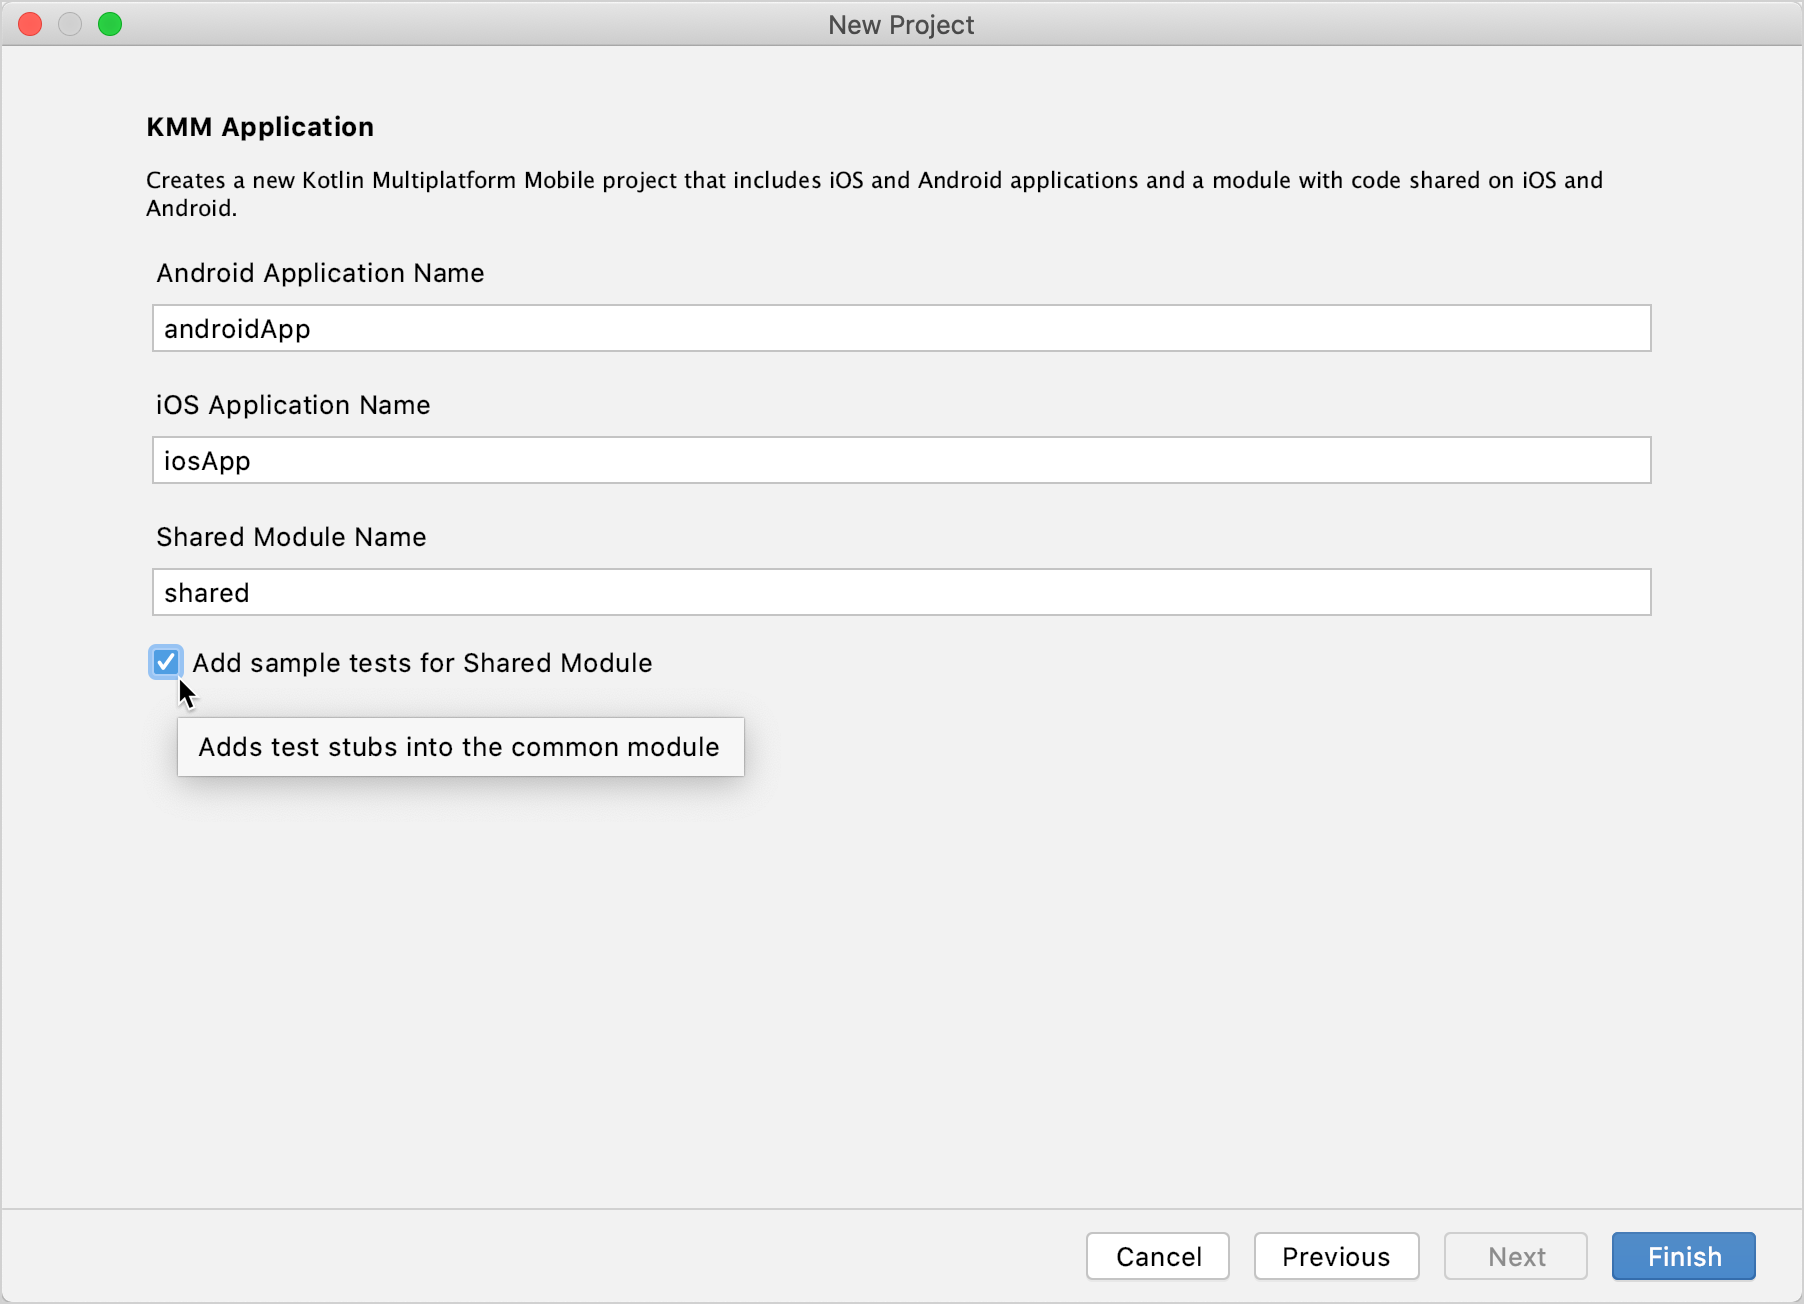
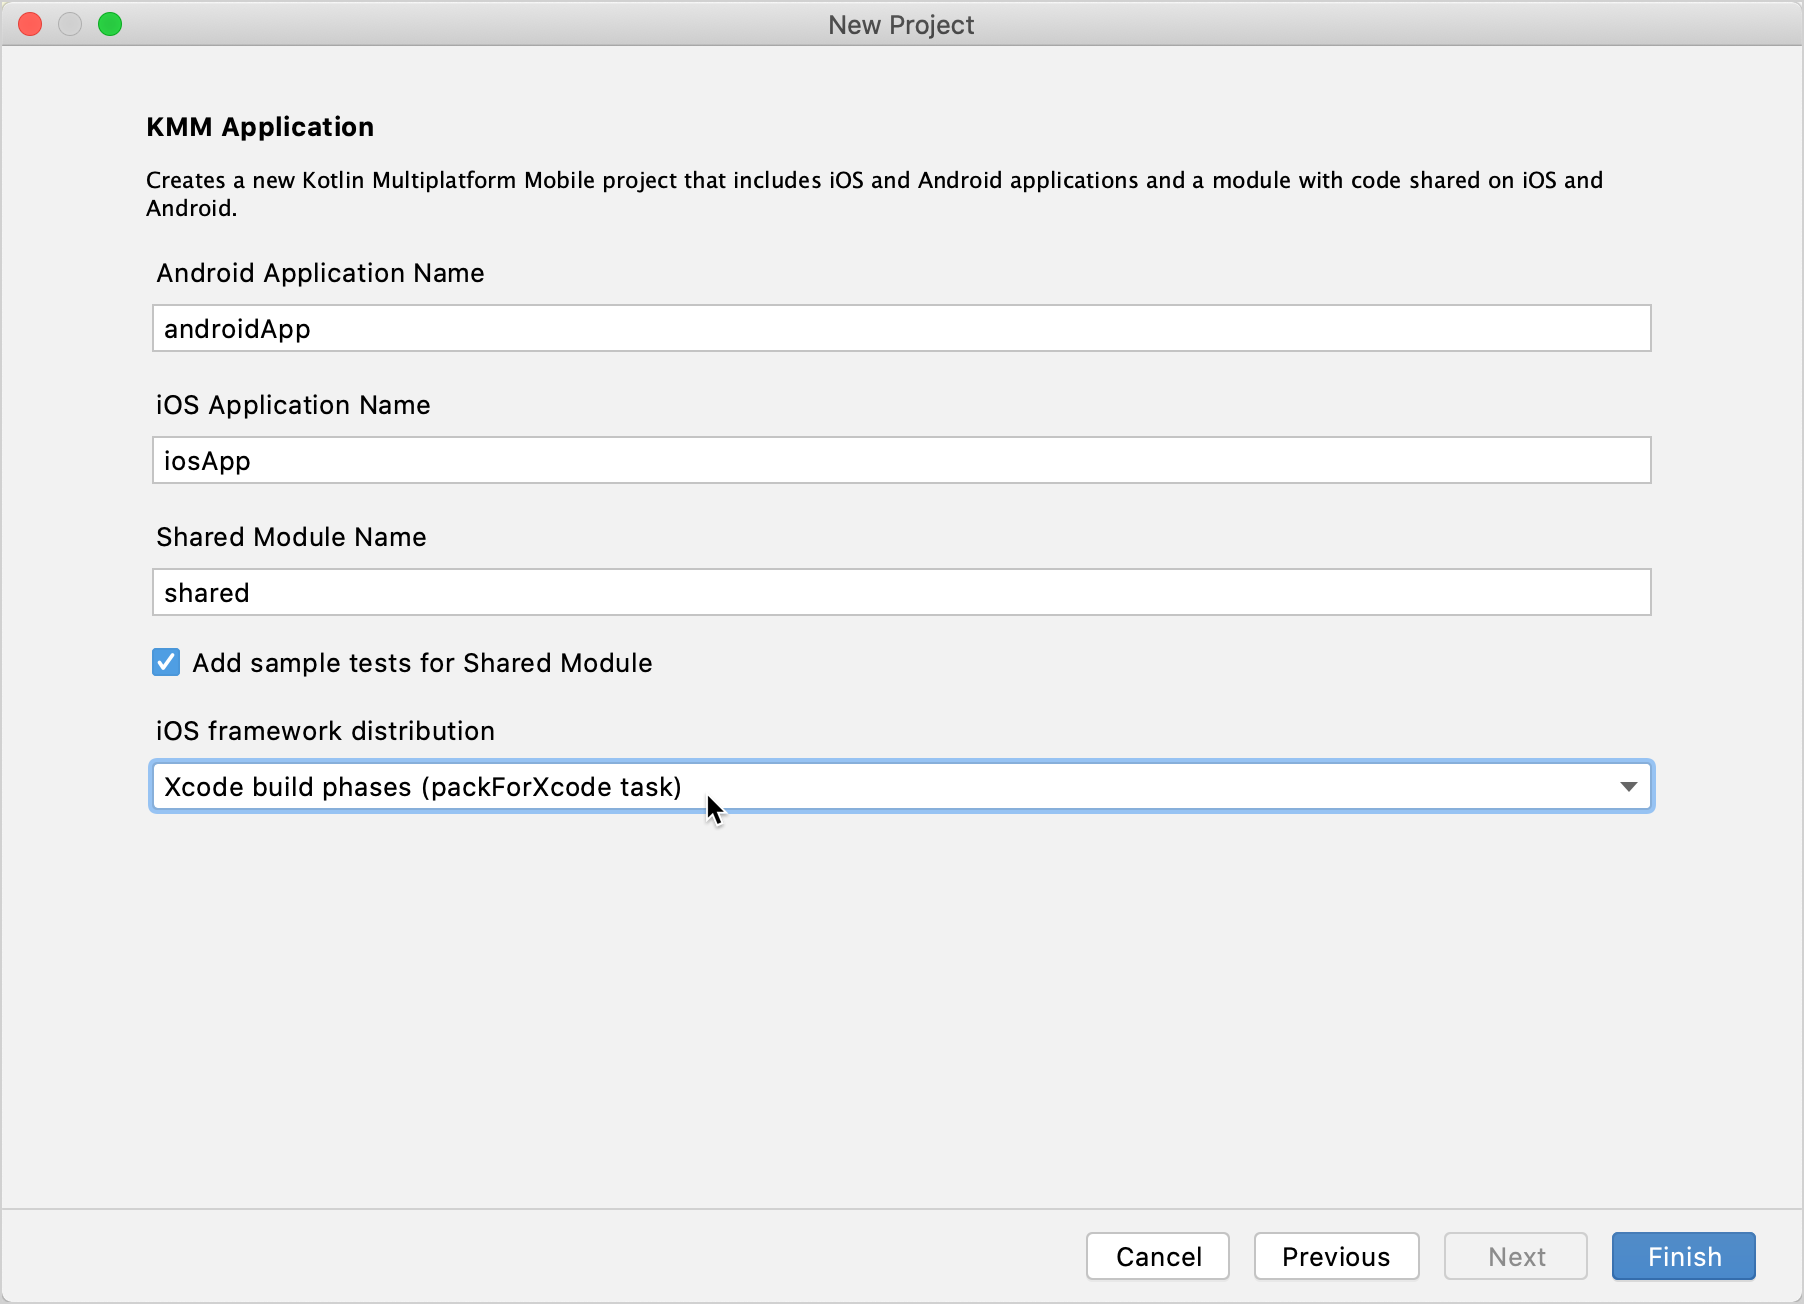
update: update wizards screenshots

Changed region(s): [[0.0621, 0.4908, 0.9313, 0.6442]]

diff --git a/topics/integrate-in-existing-app.md b/topics/integrate-in-existing-app.md
@@ -61,10 +61,11 @@ In your Android project, create a KMM shared module for your cross-platform code
 
 1. In Android Studio, click **File** | **New** | **New Module**.
 
-2. In the list of templates, select **KMM Shared Module**, enter the module name `shared`, and select the **Generate packForXcode Gradle task** checkbox.  
+2. In the list of templates, select **KMM Shared Module**, enter the module name `shared`, and select the 
+   **Xcode build phases (packForXcode task)** in the list of iOS framework distribution variants.  
    This is required for connecting the shared module to the iOS application.
 
-   ![KMM shared module](kmm-module-wizard-1.png)
+   ![KMM shared module](kmm-module-wizard.png)
 
 3. Click **Finish**.
 

diff --git a/topics/create-first-app.md b/topics/create-first-app.md
@@ -19,8 +19,8 @@ Here you will learn how to create and run your first KMM application.
 
     ![Mobile Multiplatform project - general settings](kmm-project-wizard-2.png)
 
-5. Keep the default names for the application and shared folders, select the checkbox to generate sample tests for your project, 
-and click **Finish**.  
+5. Keep the default names for the application and shared folders. Select the checkbox to generate sample tests for your 
+   project. Select **Xcode build phases (packForXcode task)** in the list of iOS framework distribution variants, and click **Finish**.  
 
     ![Mobile Multiplatform project - additional settings](kmm-project-wizard-3.png)  
     
